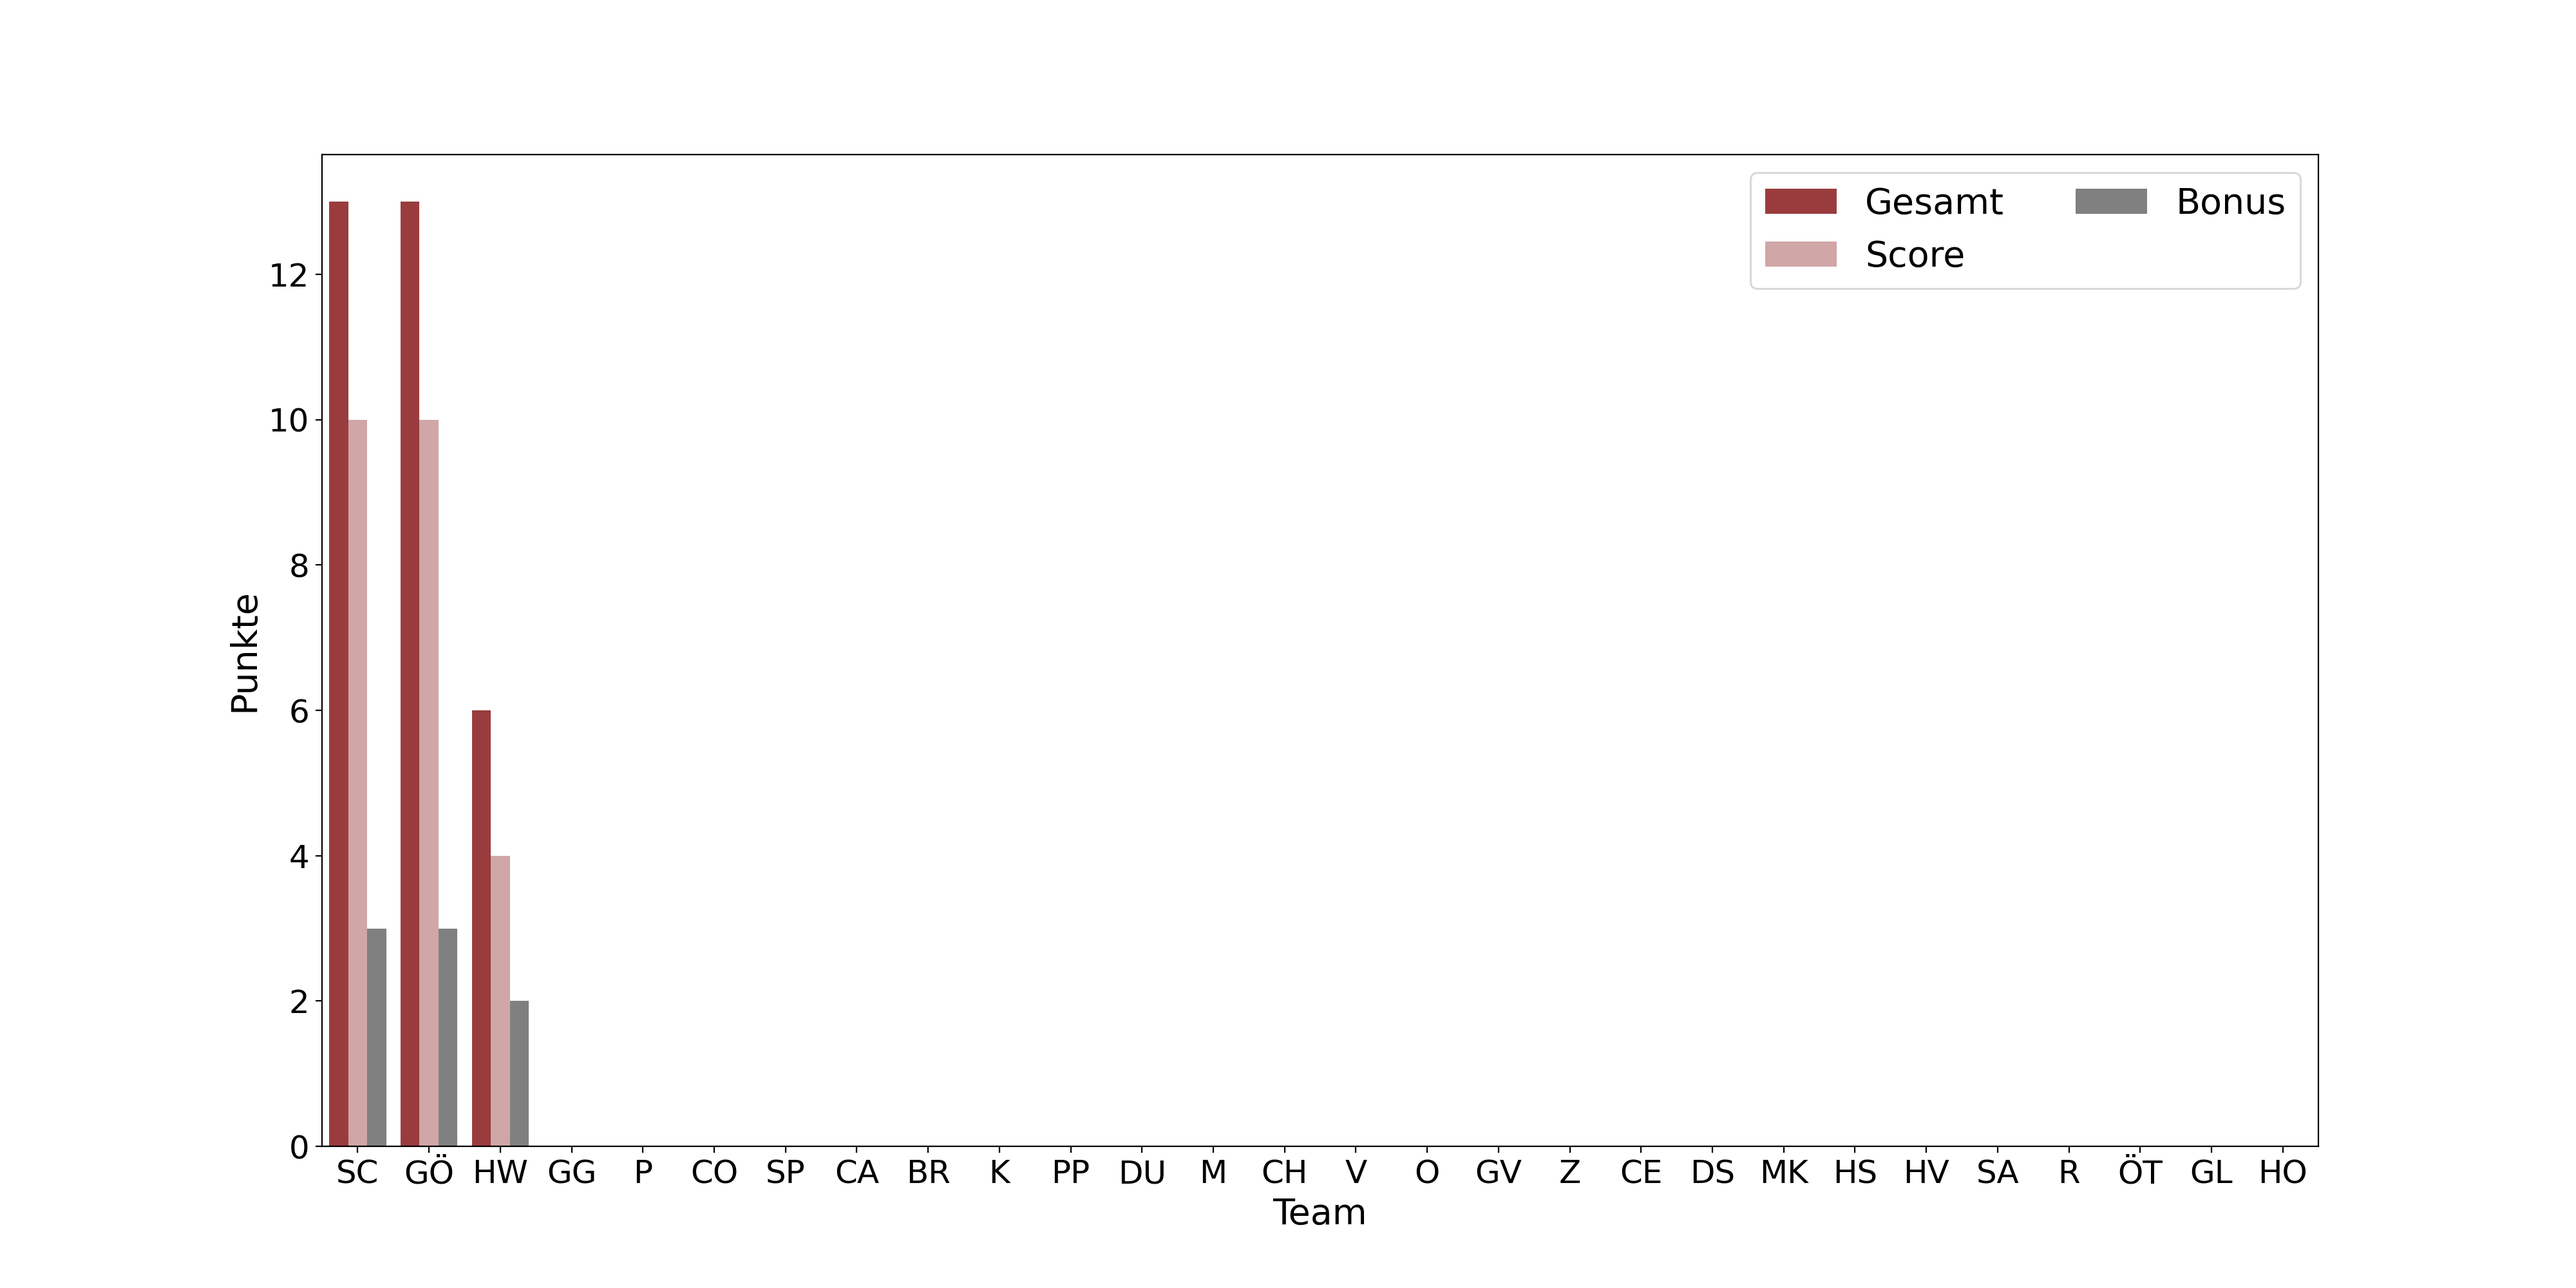
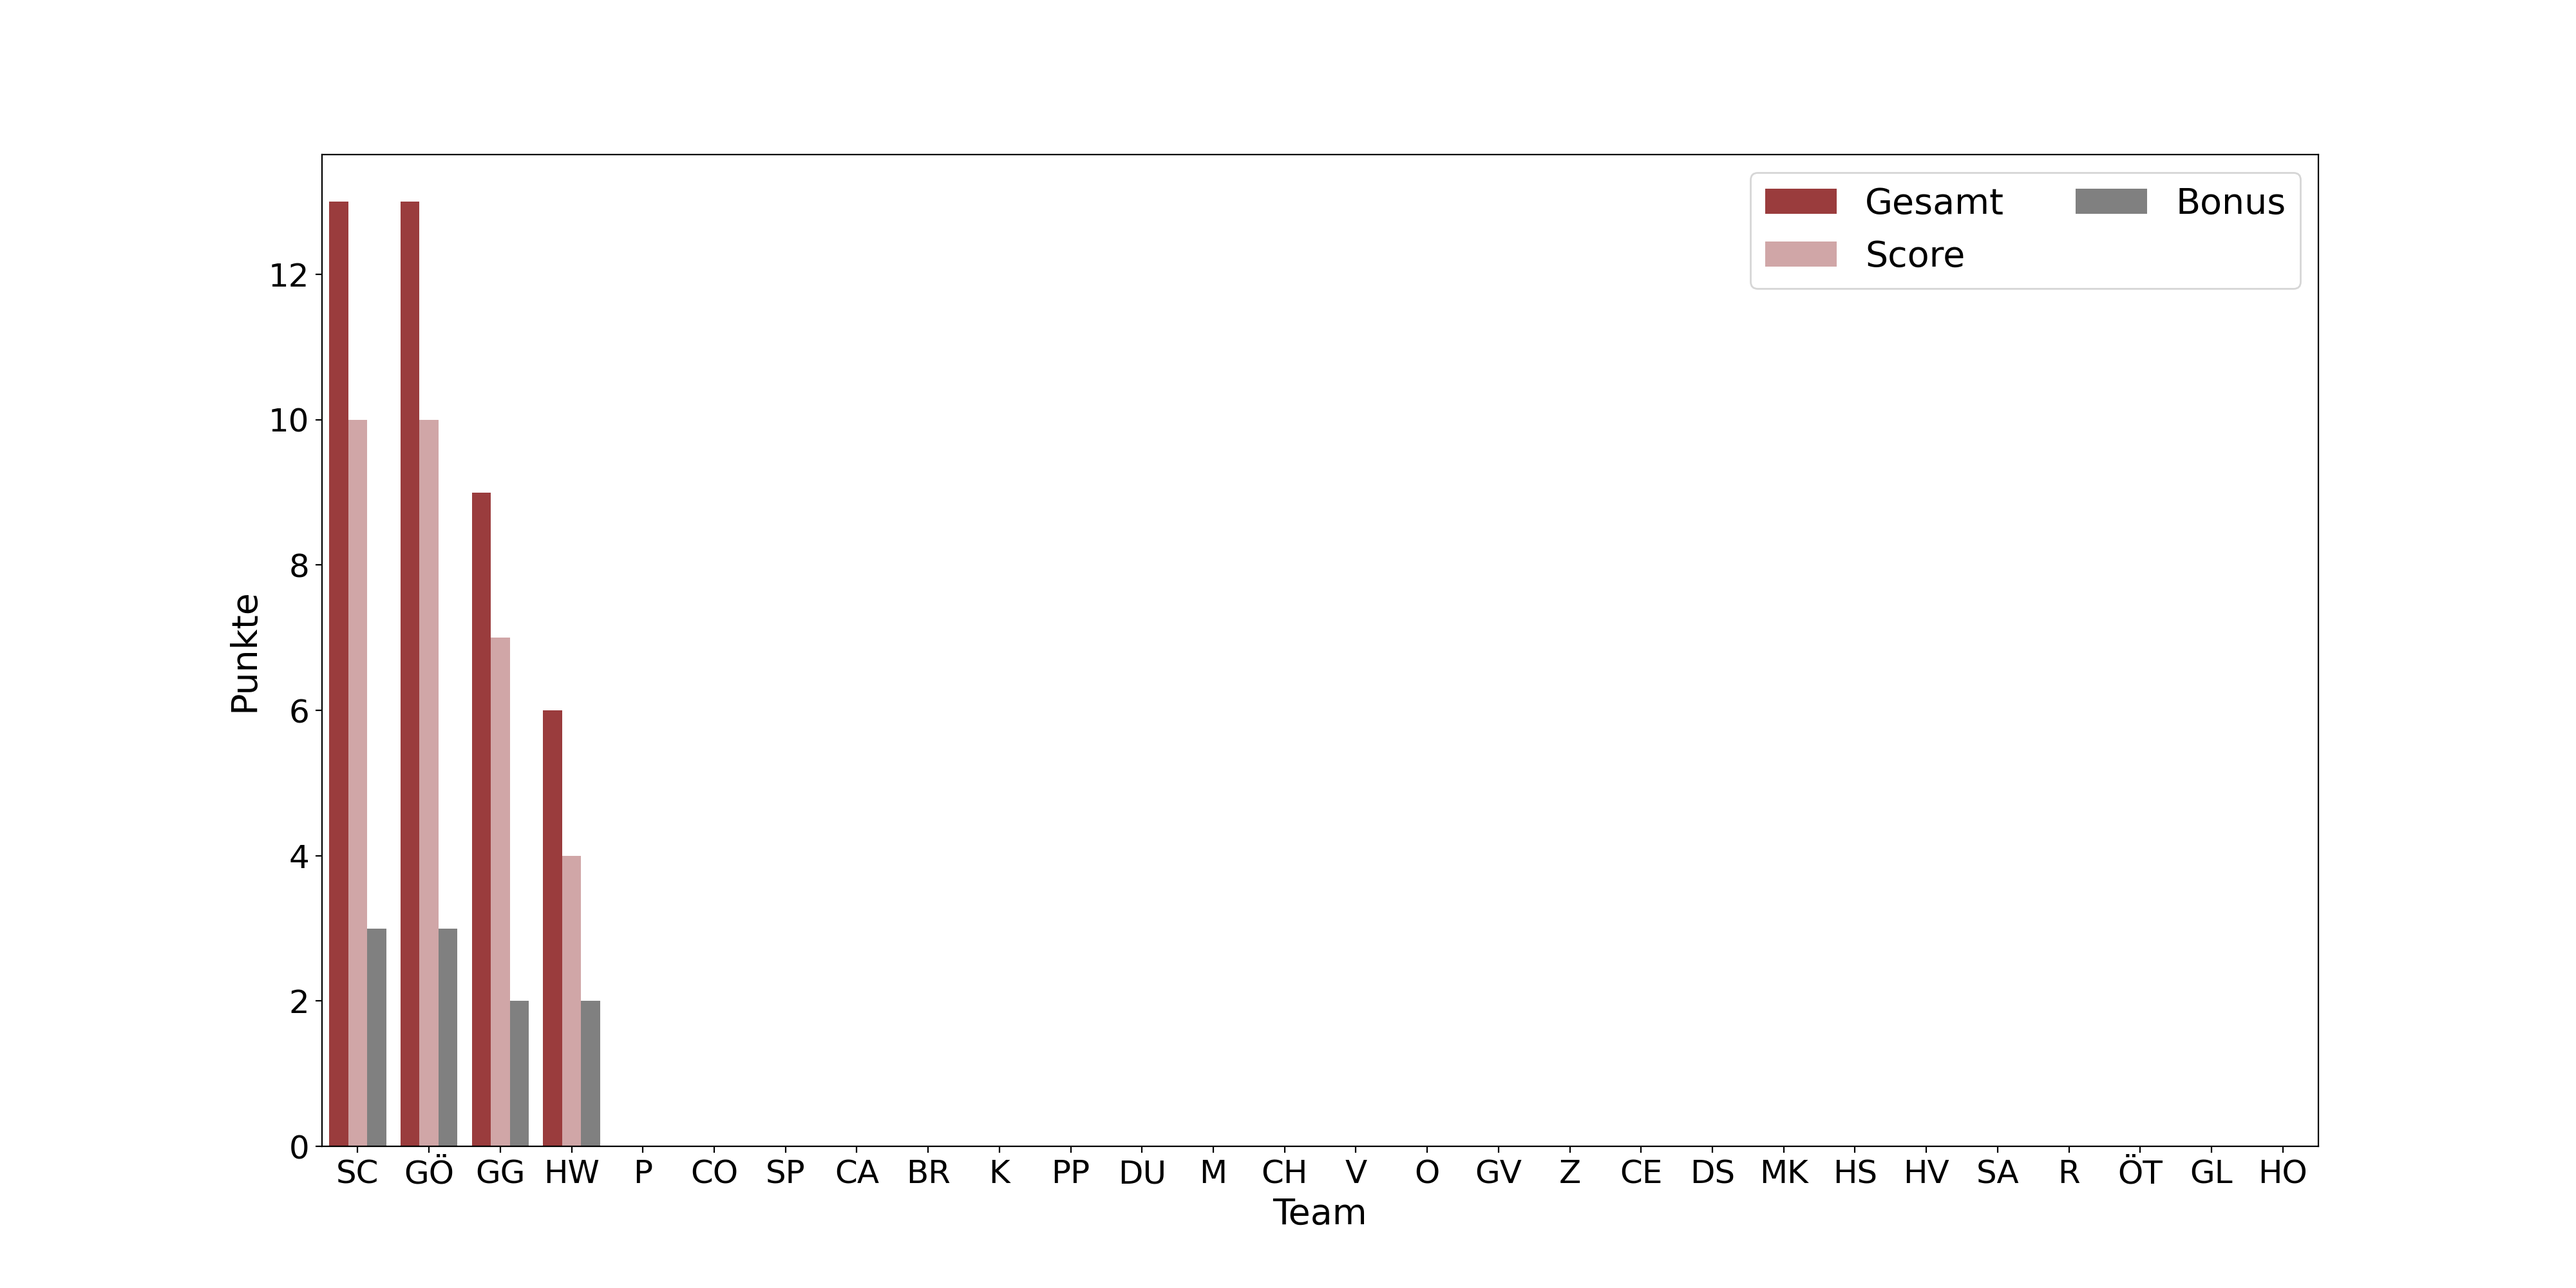
update

Changed region(s): [[0.1562, 0.403, 0.25, 0.93]]

diff --git a/css/style_teams.css b/css/style_teams.css
@@ -142,22 +142,22 @@
 
 
         .GG .team__score::after {
-            content: "0/100"
+            content: "7/100"
         }
         .GG .team__stations::after {
-            content: "0/10"
+            content: "1/10"
         }
         .GG .team__bonus::after {
-            content: "0/30"
+            content: "2/30"
         }
         .GG .team__logo {
             background-color: #E0BBE4
         }
         .GG {
-            order: 3
+            order: 2
         }
         .GG .team__all-points::after{
-             content: "0"
+             content: "9"
         }
 
 
@@ -416,7 +416,7 @@
             background-color: #758184
         }
         .HW {
-            order: 2
+            order: 3
         }
         .HW .team__all-points::after{
             content: "6"

diff --git a/css/style_station.css b/css/style_station.css
@@ -24,7 +24,7 @@
         }
 
         .G .station__teams::after {
-            content: "0/28"
+            content: "1/28"
         }
 
         .H .station__teams::after {
